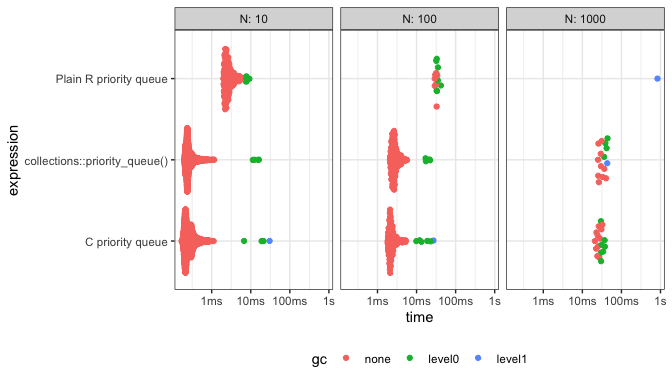
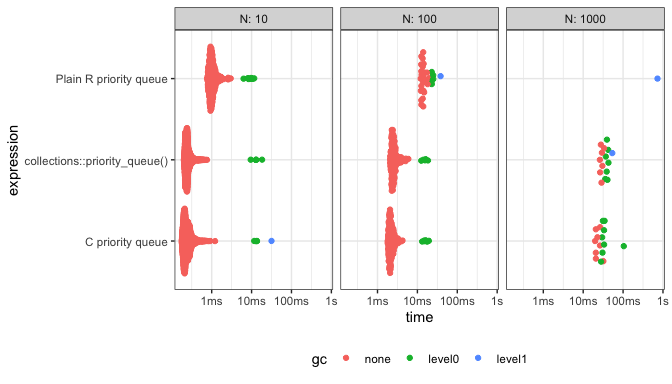
Faster R priority queue

diff --git a/README.md b/README.md
@@ -177,15 +177,15 @@ res <- bench::press(
 
 | expression                     |    N |     itr/sec | mem\_alloc |
 |:-------------------------------|-----:|------------:|-----------:|
-| Plain R priority queue         |   10 |  331.894693 |   384.12KB |
-| C priority queue               |   10 | 2841.361287 |   226.52KB |
-| collections::priority\_queue() |   10 | 3157.682577 |   278.94KB |
-| Plain R priority queue         |  100 |   30.450830 |     5.88MB |
-| C priority queue               |  100 |  346.572071 |     1.48MB |
-| collections::priority\_queue() |  100 |  307.965193 |     1.47MB |
-| Plain R priority queue         | 1000 |    1.194012 |   445.05MB |
-| C priority queue               | 1000 |   34.942391 |    14.73MB |
-| collections::priority\_queue() | 1000 |   29.576827 |    14.71MB |
+| Plain R priority queue         |   10 |  823.742603 |   408.02KB |
+| C priority queue               |   10 | 3339.651610 |   226.52KB |
+| collections::priority\_queue() |   10 | 3421.177192 |   278.94KB |
+| Plain R priority queue         |  100 |   60.869080 |     7.94MB |
+| C priority queue               |  100 |  369.796307 |     1.48MB |
+| collections::priority\_queue() |  100 |  326.521527 |     1.47MB |
+| Plain R priority queue         | 1000 |    1.372404 |   645.93MB |
+| C priority queue               | 1000 |   31.084030 |    14.73MB |
+| collections::priority\_queue() | 1000 |   28.158516 |    14.71MB |
 
 <img src="man/figures/README-unnamed-chunk-3-1.png" width="100%" />
 
@@ -197,12 +197,8 @@ Plain R priority queue
     a vector of priorities.
 -   New objects and their priorities are appended to the list/vector in
     the environment.
--   When a value is *popped*, the objects are sorted by the priorities,
-    and the first object is returned.
--   The R version is slightly optimized for the situation where there
-    are consecutive reads, in that it does not re-sort the objects if no
-    new objects have been added to the queue since the last pop
-    operation.
+-   When a value is *popped*, the maximum priority is found (using
+    `whichmax()`) and the matching object is returned
 
 C priority queue
 
